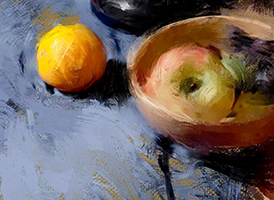
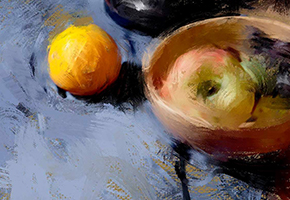
adjusted titles of images in Portfolio section

diff --git a/assets/CSS/style.css b/assets/CSS/style.css
@@ -125,6 +125,7 @@ nav a:first-child {
     margin-right: 20px;
    
    
+   
 }
 
 h3, .sidebar, h2 {
@@ -162,17 +163,40 @@ footer {
 
 /*portfolio*/
 .work {
-    max-width: 274px;
-    overflow:auto;
+    max-width: 280px;
+    /* overflow:auto; */
     position: relative;
     float: left;
     margin: 20px 0 25px;
 }
 
 .work:nth-child(even) {
-    margin-right: 40px;
+    margin-right: 60px;
+  
 }
-#texture {
-    margin-left: 40px;
+.work:nth-child(odd) {
+    margin-left: 0px;
+    margin-right: 0px;
+}
+
+.work img {
+    width: 110%;
+    border: 0 none;
+    opacity: .8;
+}
+.work h3 {
+    border-bottom; 0;
+    background: #4aaaa5;
+    color: #ffffff;
+    text-align: center;
+    position: absolute;
+    bottom: 20px;
+    padding: 15px;
+    width: 100%;
+    line-height: 30px;
+    margin-bottom: 0;
+    font-weight: 300;
+
+
 }
 

diff --git a/portfolio.html b/portfolio.html
@@ -24,7 +24,7 @@
             <h1>Portfolio</h1>
             <div class="work">
                 <img src="assets/images/Small Traditional Painting Techniques.jpg" class="auth image" alt="Traditional Painting Techniques" />
-                <h3>Traditional Painting techniques</h3>
+                <h3>Traditional techniques</h3>
             </div>
             <div class="work">
                 <img src="assets/images/Small Digital Portraiture.jpg" class="auth image" alt="Digital Portraiture" />
